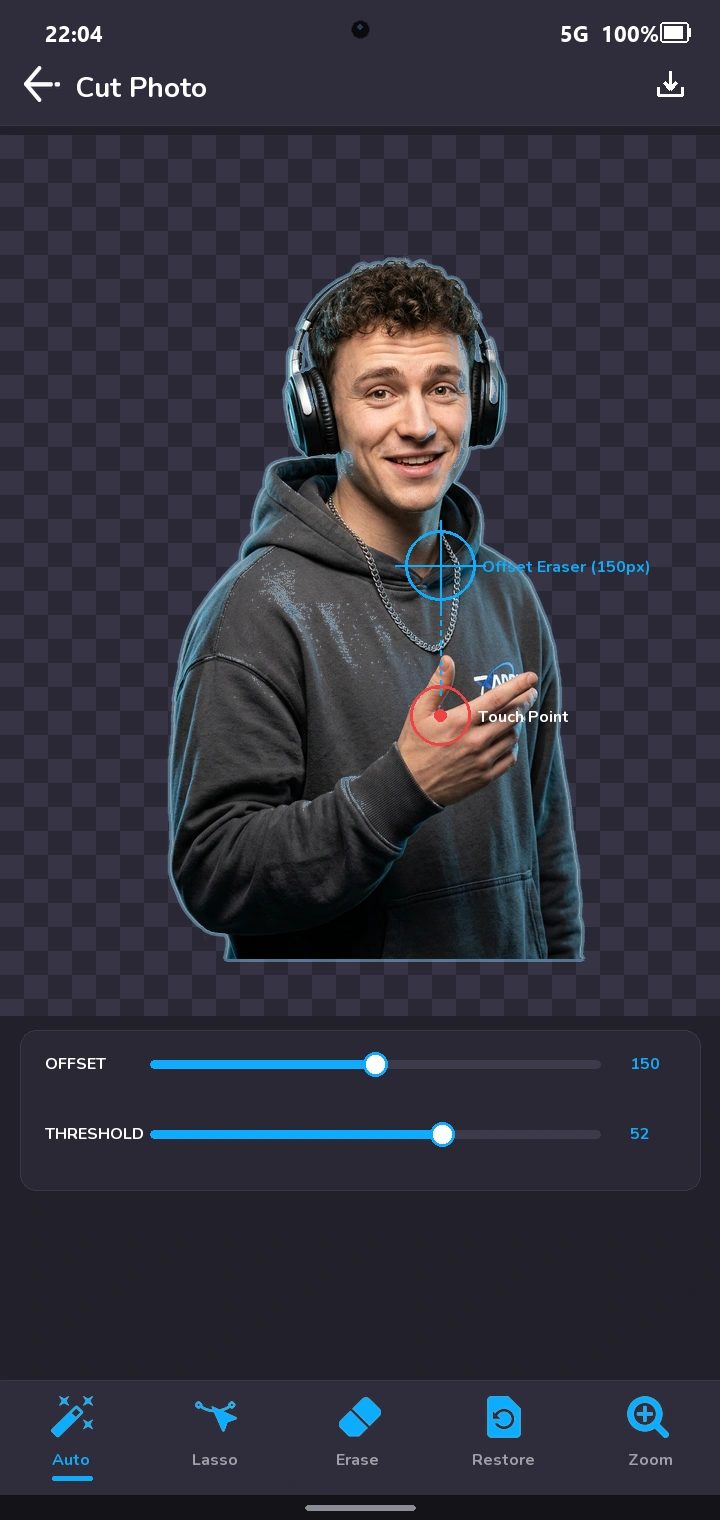
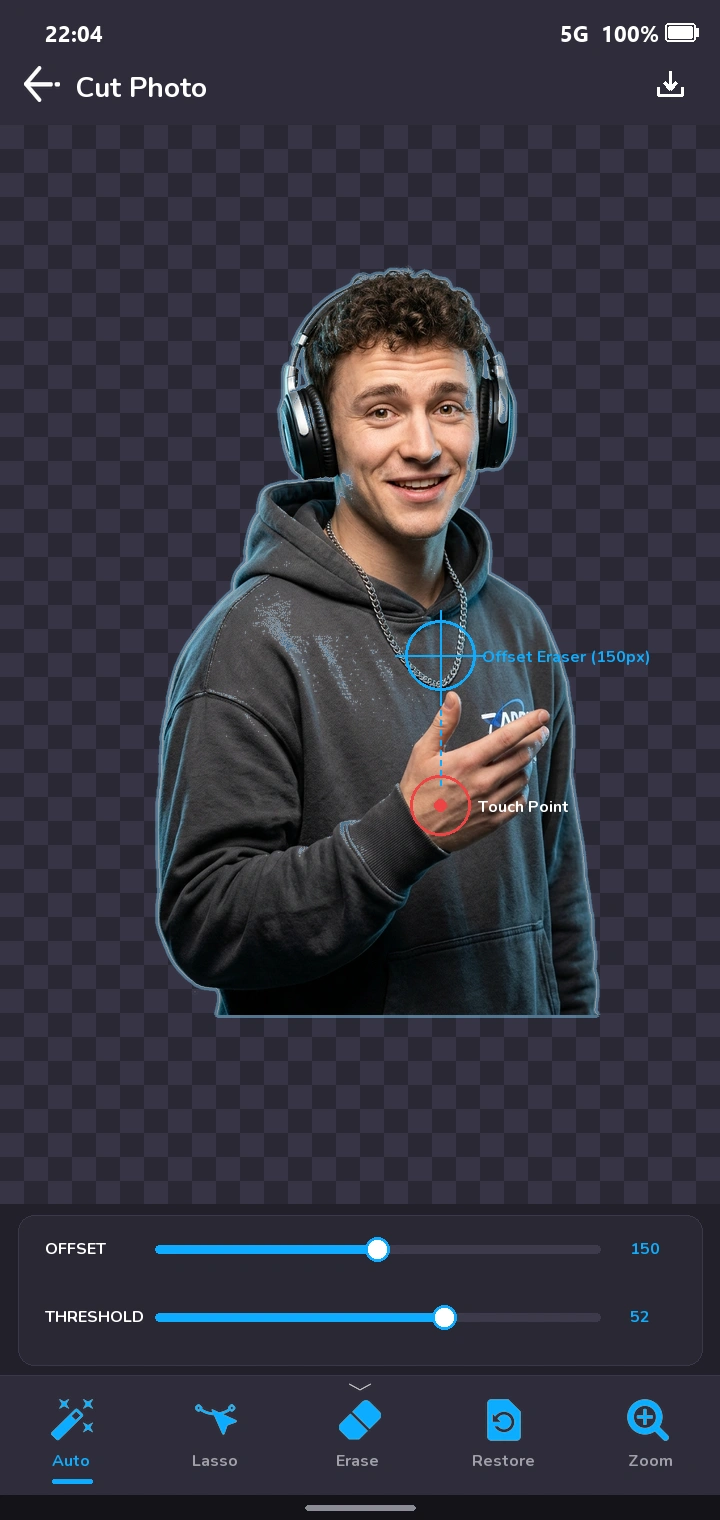
fix(ui): dock offset and threshold seekbars directly above bottom menu in cutout mockup
- align cutout phone screen with activity_eraser.xml layout_above=@id/footer
- eliminate 190px empty void between sliders panel and bottom tools menu
- expand transparency canvas and creator photo to span seamlessly to controls
- adjust floating Threshold badge to align horizontally with seekbar row
- pass all 31 audit checks

diff --git a/index.html b/index.html
@@ -351,7 +351,7 @@
           <!-- Phone Chassis showing Cutout Workflow (Strict 9:19 Portrait Ratio - Samsung Galaxy S24) -->
           <div class="ark-phone ark-showcase-phone">
             <div class="ark-phone-screen">
-              <img src="/assets/images/app-screen-cutout.webp?v=s24-full" 
+              <img src="/assets/images/app-screen-cutout.webp?v=s24-docked" 
                    alt="5-mode background removal eraser tool isolating subject with threshold control on Android" 
                    width="310" 
                    height="654" 

diff --git a/assets/css/styles.css b/assets/css/styles.css
@@ -3277,7 +3277,7 @@ h3.card-title {
 }
 
 .ark-tool-badge--cutout-thresh {
-  bottom: 18%;
+  bottom: 12.5%;
   left: -30px;
 }
 

diff --git a/generate_app_screens.py b/generate_app_screens.py
@@ -516,9 +516,69 @@ def make_cutout_screen():
     draw.line((tray_x - 6, tray_y - 1, tray_x, tray_y + 6), fill=COLOR_TEXT, width=3)
     draw.line((tray_x + 6, tray_y - 1, tray_x, tray_y + 6), fill=COLOR_TEXT, width=3)
     
-    # Main Canvas: Checkerboard Transparency (Sub-pixel grid)
-    canv_y = 135
-    canv_h = 880
+    # 2. Bottom Cutout Toolbar (5 Modes: Auto, Lasso, Erase, Restore, Zoom)
+    nav_h = 120
+    nav_y = H - nav_h - 25  # 1375
+    draw.rectangle((0, nav_y, W, nav_y + nav_h), fill=COLOR_BAR)
+    draw.line((0, nav_y, W, nav_y), fill=COLOR_BAR_BORDER, width=1)
+    
+    # Collapse chevron handle (rel_down in activity_eraser.xml)
+    down_icon = load_app_drawable("ic_down.png", (22, 12))
+    if down_icon:
+        img.paste(down_icon, (W // 2 - 11, nav_y + 6), down_icon)
+    else:
+        draw.line((W // 2 - 12, nav_y + 8, W // 2, nav_y + 14), fill=(160, 160, 170), width=2)
+        draw.line((W // 2, nav_y + 14, W // 2 + 12, nav_y + 8), fill=(160, 160, 170), width=2)
+        
+    tools = [
+        ("ic_slated_auto.png", "Auto"),
+        ("ic_slated_extract.png", "Lasso"),
+        ("ic_slated_manual.png", "Erase"),
+        ("ic_slated_restore.png", "Restore"),
+        ("ic_slated_zoom.png", "Zoom")
+    ]
+    tool_w = W // len(tools)
+    for idx, (tfile, tlabel) in enumerate(tools):
+        cx = idx * tool_w + tool_w // 2
+        is_active = (idx == 0) # Auto active
+        timg = load_app_drawable(tfile, (42, 42))
+        if timg:
+            img.paste(timg, (cx - 21, nav_y + 24), timg)
+        else:
+            draw.rectangle((cx - 18, nav_y + 24, cx + 18, nav_y + 60), fill=COLOR_ACCENT if is_active else COLOR_TEXT_MUTED)
+        t_color = COLOR_ACCENT if is_active else COLOR_TEXT_MUTED
+        draw.text((cx - len(tlabel)*4 - 4, nav_y + 74), tlabel, fill=t_color, font=FONT_SMB)
+        if is_active:
+            draw.rounded_rectangle((cx - 20, nav_y + 104, cx + 20, nav_y + 108), radius=2, fill=COLOR_ACCENT)
+
+    # 3. Adjustment Sliders Panel (Docked DIRECTLY ON TOP of Bottom Menu, ZERO VOID!)
+    # Matching activity_eraser.xml rel_seek_container layout_above="@id/footer"
+    panel_h = 150
+    panel_gap = 10
+    panel_y = nav_y - panel_h - panel_gap   # 1375 - 150 - 10 = 1215
+    panel_bottom = nav_y - panel_gap        # 1365
+    
+    draw.rounded_rectangle((18, panel_y, W - 18, panel_bottom), radius=16, fill=COLOR_CARD_BG, outline=COLOR_BAR_BORDER, width=1)
+    
+    # Offset Seekbar
+    draw.text((45, panel_y + 22), "OFFSET", fill=COLOR_TEXT, font=FONT_SMB)
+    draw.rounded_rectangle((155, panel_y + 30, W - 120, panel_y + 38), radius=4, fill=(60, 58, 75))
+    draw.rounded_rectangle((155, panel_y + 30, 155 + int((W - 275) * 0.5), panel_y + 38), radius=4, fill=COLOR_ACCENT)
+    thumb_x = 155 + int((W - 275) * 0.5)
+    draw.ellipse((thumb_x - 12, panel_y + 22, thumb_x + 12, panel_y + 46), fill=(255, 255, 255), outline=COLOR_ACCENT, width=3)
+    draw.text((W - 90, panel_y + 22), "150", fill=COLOR_ACCENT, font=FONT_SMB)
+    
+    # Threshold Seekbar
+    draw.text((45, panel_y + 90), "THRESHOLD", fill=COLOR_TEXT, font=FONT_SMB)
+    draw.rounded_rectangle((155, panel_y + 98, W - 120, panel_y + 106), radius=4, fill=(60, 58, 75))
+    draw.rounded_rectangle((155, panel_y + 98, 155 + int((W - 275) * 0.65), panel_y + 106), radius=4, fill=COLOR_ACCENT)
+    thumb_x2 = 155 + int((W - 275) * 0.65)
+    draw.ellipse((thumb_x2 - 12, panel_y + 90, thumb_x2 + 12, panel_y + 114), fill=(255, 255, 255), outline=COLOR_ACCENT, width=3)
+    draw.text((W - 90, panel_y + 90), "52", fill=COLOR_ACCENT, font=FONT_SMB)
+
+    # 4. Main Canvas: Checkerboard Transparency (Extending all the way down to sliders panel!)
+    canv_y = 125
+    canv_h = panel_y - 12 - canv_y          # 1215 - 12 - 125 = 1078px
     sq_size = 24
     for cy in range(canv_y, canv_y + canv_h, sq_size):
         for cx in range(0, W, sq_size):
@@ -533,7 +593,7 @@ def make_cutout_screen():
         
     if os.path.exists(cutout_path):
         c_cutout = Image.open(cutout_path).convert("RGBA")
-        cw, ch = 450, 704
+        cw, ch = 480, 750
         c_cutout = c_cutout.resize((cw, ch), Image.Resampling.LANCZOS)
         
         # Draw dynamic neon cyan boundary glow around creator
@@ -541,11 +601,11 @@ def make_cutout_screen():
         alpha_mask = c_cutout.split()[-1]
         for ox, oy in [(-3,0),(3,0),(0,-3),(0,3),(-2,-2),(2,2),(-2,2),(2,-2)]:
             glow_mask.paste(Image.new("RGBA", (cw, ch), (14, 172, 255, 75)), (ox + 8, oy + 8), alpha_mask)
-        img.paste(glow_mask, (W//2 - cw//2 - 8, canv_y + 112), glow_mask)
-        img.paste(c_cutout, (W//2 - cw//2, canv_y + 120), c_cutout)
+        img.paste(glow_mask, (W//2 - cw//2 - 8, canv_y + 132), glow_mask)
+        img.paste(c_cutout, (W//2 - cw//2, canv_y + 140), c_cutout)
         
     # Offset Cursor Brush Mechanism (Exact App Offset Feature)
-    finger_x, finger_y = 440, canv_y + 580
+    finger_x, finger_y = 440, canv_y + 680
     draw.ellipse((finger_x - 30, finger_y - 30, finger_x + 30, finger_y + 30), outline=(239, 68, 68), width=3)
     draw.ellipse((finger_x - 6, finger_y - 6, finger_x + 6, finger_y + 6), fill=(239, 68, 68))
     draw.text((finger_x + 38, finger_y - 10), "Touch Point", fill=(255, 255, 255), font=FONT_SMB)
@@ -559,54 +619,7 @@ def make_cutout_screen():
     draw.line((brush_x, brush_y - 45, brush_x, brush_y + 45), fill=COLOR_ACCENT, width=2)
     draw.text((brush_x + 42, brush_y - 10), "Offset Eraser (150px)", fill=COLOR_ACCENT, font=FONT_SMB)
 
-    # Adjustment Sliders Panel (Offset & Threshold Seekbars matching activity_eraser.xml)
-    panel_y = canv_y + canv_h + 15
-    draw.rounded_rectangle((20, panel_y, W - 20, panel_y + 160), radius=16, fill=COLOR_CARD_BG, outline=COLOR_BAR_BORDER, width=1)
-    
-    # Offset seekbar
-    draw.text((45, panel_y + 22), "OFFSET", fill=COLOR_TEXT, font=FONT_SMB)
-    draw.rounded_rectangle((150, panel_y + 30, W - 120, panel_y + 38), radius=4, fill=(60, 58, 75))
-    draw.rounded_rectangle((150, panel_y + 30, 150 + int((W - 270) * 0.5), panel_y + 38), radius=4, fill=COLOR_ACCENT)
-    thumb_x = 150 + int((W - 270) * 0.5)
-    draw.ellipse((thumb_x - 12, panel_y + 22, thumb_x + 12, panel_y + 46), fill=(255, 255, 255), outline=COLOR_ACCENT, width=3)
-    draw.text((W - 90, panel_y + 22), "150", fill=COLOR_ACCENT, font=FONT_SMB)
-    
-    # Threshold seekbar
-    draw.text((45, panel_y + 92), "THRESHOLD", fill=COLOR_TEXT, font=FONT_SMB)
-    draw.rounded_rectangle((150, panel_y + 100, W - 120, panel_y + 108), radius=4, fill=(60, 58, 75))
-    draw.rounded_rectangle((150, panel_y + 100, 150 + int((W - 270) * 0.65), panel_y + 108), radius=4, fill=COLOR_ACCENT)
-    thumb_x2 = 150 + int((W - 270) * 0.65)
-    draw.ellipse((thumb_x2 - 12, panel_y + 92, thumb_x2 + 12, panel_y + 116), fill=(255, 255, 255), outline=COLOR_ACCENT, width=3)
-    draw.text((W - 90, panel_y + 92), "52", fill=COLOR_ACCENT, font=FONT_SMB)
-
-    # Bottom Cutout Toolbar (5 Modes: Auto, Lasso, Erase, Restore, Zoom)
-    nav_h = 115
-    nav_y = H - nav_h - 25
-    draw.rectangle((0, nav_y, W, nav_y + nav_h), fill=COLOR_BAR)
-    draw.line((0, nav_y, W, nav_y), fill=COLOR_BAR_BORDER, width=1)
-    
-    tools = [
-        ("ic_slated_auto.png", "Auto"),
-        ("ic_slated_extract.png", "Lasso"),
-        ("ic_slated_manual.png", "Erase"),
-        ("ic_slated_restore.png", "Restore"),
-        ("ic_slated_zoom.png", "Zoom")
-    ]
-    tool_w = W // len(tools)
-    for idx, (tfile, tlabel) in enumerate(tools):
-        cx = idx * tool_w + tool_w // 2
-        is_active = (idx == 0) # Auto active
-        timg = load_app_drawable(tfile, (42, 42))
-        if timg:
-            img.paste(timg, (cx - 21, nav_y + 16), timg)
-        else:
-            draw.rectangle((cx - 18, nav_y + 16, cx + 18, nav_y + 52), fill=COLOR_ACCENT if is_active else COLOR_TEXT_MUTED)
-        t_color = COLOR_ACCENT if is_active else COLOR_TEXT_MUTED
-        draw.text((cx - len(tlabel)*4 - 4, nav_y + 68), tlabel, fill=t_color, font=FONT_SMB)
-        if is_active:
-            draw.rounded_rectangle((cx - 20, nav_y + 96, cx + 20, nav_y + 100), radius=2, fill=COLOR_ACCENT)
-            
-    # System bar pill (Samsung Galaxy S24 slim gesture bar)
+    # 5. System bar pill (Samsung Galaxy S24 slim gesture bar)
     draw.rectangle((0, H - 25, W, H), fill=(20, 19, 25))
     draw.rounded_rectangle((W//2 - 55, H - 15, W//2 + 55, H - 10), radius=3, fill=(140, 140, 150))
     return img
